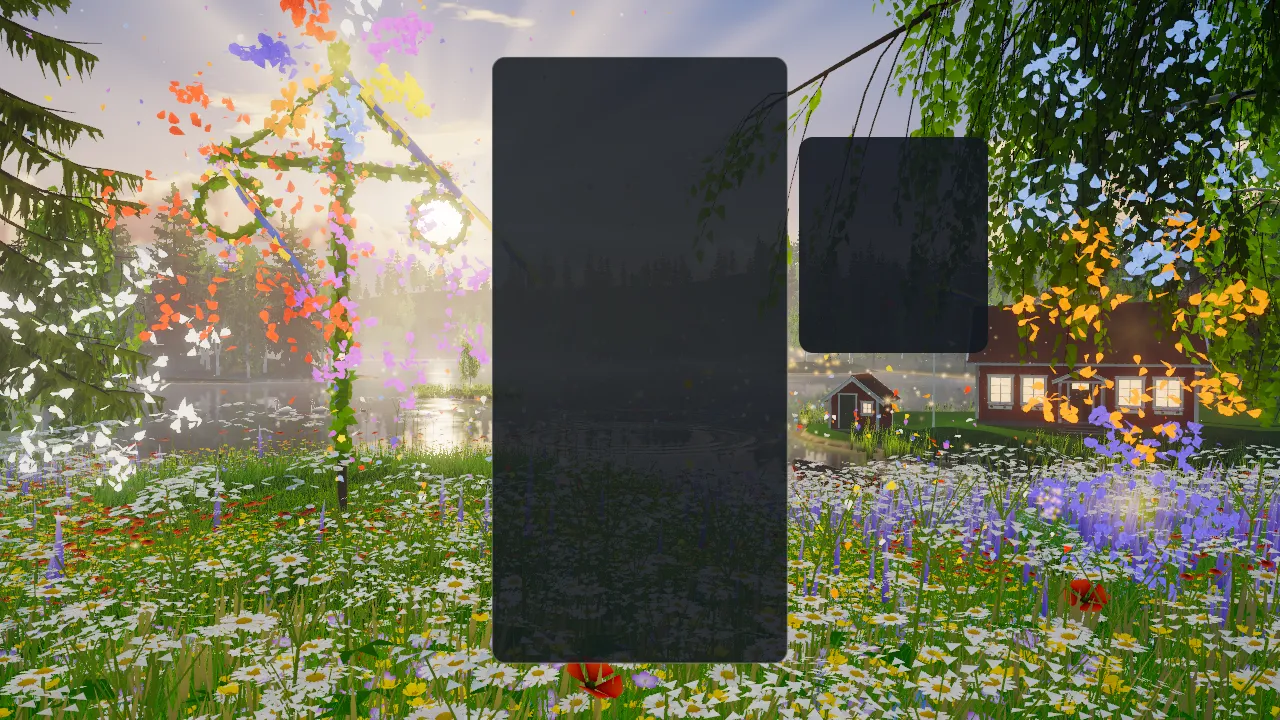
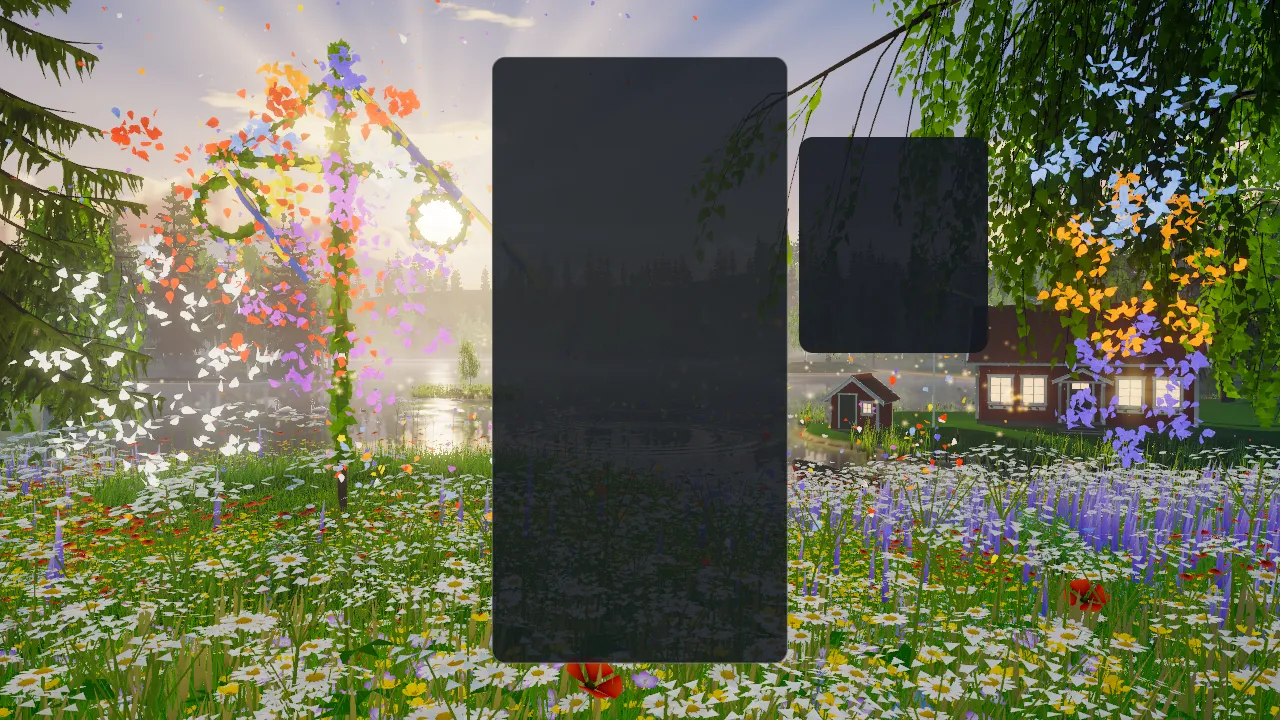
Summer living eve: the record follows the final code; the swans' origin in the attribution

Changed region(s): [[0.0, 0.0, 1.0, 1.0], [0.5938, 0.4889, 0.6562, 0.5194], [0.0, 0.7639, 0.0312, 0.825]]

diff --git a/tests/unit/summer-fx-director.test.js b/tests/unit/summer-fx-director.test.js
@@ -2505,7 +2505,7 @@ describe('Summer effects director', () => {
             expect(seen).toEqual([...seen].sort((a, b) => a - b));
         });
 
-        it('opens the bouquet\'s own flower about the maypole\'s head, nearer than the pole and clear of the card', () => {
+        it('opens the bouquet\'s own flower about the maypole\'s head, in front of it and clear of the card', () => {
             const CROWN_DEPTH = 8.2;
             const maypole = maypoleAnchors();
             const phone = {

diff --git a/docs/SUMMER_OVERHAUL_2026-10.md b/docs/SUMMER_OVERHAUL_2026-10.md
@@ -269,20 +269,23 @@ into uniforms; nothing is rebuilt, so every tier and both backends show the same
 | Event | What is its own |
 | --- | --- |
 | Piece lock | As before: petals of the piece's flower from the card's edge, that flower nodding and glowing wherever it grows, a gust through the grass, a ring on the lake (now seen). |
-| Hard drop | A ring of pollen runs out over the heads of the flowers from where the piece came down, under the dandelion seed it shakes loose. |
+| Hard drop | The piece comes down like a stone in the grass: a ring of its own flower's petals leaps out of the meadow to both sides of the board's foot, pollen among them, over the dandelion seed it shakes loose. |
 | Line clear (1–3) | As before: twin jets at the cleared rows, a broad ring, from two lines a front of wind. |
 | Four lines | As before: the meadow lifts its petals and the swallows tower; and now the sun's fan of rays opens across the sky. |
 | Combo / streak | As before: the crown of petals and the silk ribbons round the board. They are a combo's alone now (a back-to-back or a perfect clear no longer raises the ribbons). |
 | Twist | The maypole dances: its ten ribbons fly out and wheel round the pole. The spinning garland beside the board stays. |
 | Back-to-back | A stone skips down the sun's road, ring after ring, each touch a glint, further and with more hops for every one in a row; the sun's rays answer. |
-| The bouquet | The maypole throws the bouquet, and one great flower of every colour opens over it. |
-| Perfect clear | The largest thing the evening does. Seven flowers open in the air beside the board, one after another, one for each kind: a thread of pollen climbs, and the petals of one kind are thrown from a gold heart to their places in a flower drawn in the air, five to eight great petals each made of the small ones. The air holds each for a moment and a half, then lets it fall. Six stand to either side of the board (clear of the score panel, which is measured) and the last opens over the maypole, with the sunburst and the rising meadow as before. |
+| The bouquet | The maypole throws the bouquet, and one great flower of every colour opens about its head. |
+| Perfect clear | The largest thing the evening does. Seven flowers open in the air beside the board, one after another, one for each kind: a thread of pollen climbs, and the petals of one kind are thrown from a gold heart to their places in a flower drawn in the air, five to eight great petals each made of the small ones. The air holds each for a moment and a half, then lets it fall. Six stand to either side of the board and the last, in every colour, opens about the maypole's head, with the sunburst and the rising meadow as before. A flower's whole rim is kept clear of the board card, the score panel (both are measured), the screen's edges and the meadow under it: on the score panel's narrow side the three stand one above another, drawn a little smaller, and on an upright screen they open in a row above the board. |
 | Level up | The hour turns, and a wave of bloom rolls away from the eye through the meadow, opening and lighting every flower as it passes, and runs on across the lake as a band of sparkling water. A skein of swans takes wing over the lake. |
 | Game over | Dusk: the wind dies, mist rises off the water, the light lowers and cools while the petals come down. It lifts again when the next session starts. |
 
 Frame-wide brightenings (the rays, the hearts of the flowers) go through `flashScale()`; what
 moves the maypole's ribbons is scaled by Reduce motion. Nothing is thrown in front of the board:
-the card and the score panel are measured, and the flowers open in the strips beside them.
+the card and the score panel are measured, and the flowers open in the strips beside them. The
+petal pool grew by a quarter (4,000 at High) so that the largest thing the game can ask for at
+once, four lines with a perfect clear on top, finds every petal a free place while a combo's
+crown is still turning.
 
 | Perfect clear | Twist |
 | --- | --- |
@@ -355,6 +358,8 @@ them with distance into flecks the ground shader carries.
 | `summer-garlands.js` | The silk ribbons a combo winds around the board. |
 | `summer-petal-sim.js`, `summer-petals.js` | Petals, seed and pollen: simulation, and drawing. |
 | `summer-hours.js` | The five hours of the night: their colours, the blend between them, and the hour a level stands at (pure). |
+| `summer-weather.js` | The six weathers and the clock that turns them (pure). Since 2026-11-17. |
+| `summer-swans.js`, `summer-swan-routes.js`, `summer-swan-model.js` | The swans: the instanced draws; the family's round and the skein's flight lines, found by numbers through the rest lens; the generated Blender model. Since 2026-11-17. |
 | `summer-reactions.js` | The event director (pure), and where the night stands: the level, the turn to its hour, and the slow clock. |
 | `summer-stage.js`, `summer-fx-director.js` | Board card → world, and cues → petals, force fields, rings and gusts. |
 | `summer-post.js` | Volumetric shafts, bloom, grade, FXAA. |
@@ -397,15 +402,20 @@ them with distance into flecks the ground shader carries.
 
 | Tier | Stands / far trees | Sprays kept | Grass clumps | Flowers | Petal pool | Mirror | Shafts | Post |
 | --- | --- | --- | --- | --- | --- | --- | --- | --- |
-| Extreme | 44 / 460 | 100 % | 49,000 | 35,200 | 3,600 | 0.75 | 40 steps | on |
-| Ultra | 38 / 400 | 100 % | 40,500 | 29,400 | 3,000 | 0.6 | 32 steps | on |
-| High | 32 / 340 | 86 % | 32,000 | 23,600 | 2,400 | 0.5 | 26 steps | on |
-| Medium | 24 / 250 | 62 % | 20,500 | 15,400 | 1,500 | 0.4 | 16 steps, 0.35 scale | on |
-| Low | 16 / 160 | 40 %, trunks only | 10,400 | 7,800 | 850 | 0.3 | analytic glow in the haze | off |
-| Minimal | 10 / 100 | 28 %, trunks only | 5,400 | 3,900 | 450 | 0.22 | analytic glow in the haze | off |
+| Extreme | 44 / 2,000 | 100 % | 49,000 | 35,200 | 6,000 | 0.75 | 40 steps | on |
+| Ultra | 38 / 1,700 | 100 % | 40,500 | 29,400 | 5,000 | 0.6 | 32 steps | on |
+| High | 32 / 1,400 | 86 % | 32,000 | 23,600 | 4,000 | 0.5 | 26 steps | on |
+| Medium | 24 / 950 | 62 % | 20,500 | 15,400 | 2,500 | 0.4 | 16 steps, 0.35 scale | on |
+| Low | 16 / 560 | 40 %, trunks only | 10,400 | 7,800 | 1,400 | 0.3 | analytic glow in the haze | off |
+| Minimal | 10 / 340 | 28 %, trunks only | 5,400 | 3,900 | 750 | 0.22 | analytic glow in the haze | off |
 
 "Stands" are the modelled trees beyond the nine placed by hand. Low and Minimal draw the
-same scene directly with ACES tone mapping and skip limb geometry.
+same scene directly with ACES tone mapping and skip limb geometry. (Far trees and the petal
+pool as of the living eve, 2026-11-17; before it they were 460 to 100 and 3,600 to 450.) Since
+then a tier also sets how much of the sky is drawn (`sky`: Low and Minimal one row of cumulus
+and the high deck; Medium the second row, the mackerel field, the noctilucent clouds and rain on
+the lake as well; High and up finer billows) and how many swans there are (`swans`: two to four
+cygnets with the pair, three to seven birds in a skein).
 
 | Minimal, forced WebGL2 | Portrait, High |
 | --- | --- |

diff --git a/src/themes/summer/assets/ATTRIBUTION.md b/src/themes/summer/assets/ATTRIBUTION.md
@@ -104,3 +104,19 @@ Growth and props are seeded and the bakes run on the CPU: on the machine that wr
 pack, three runs in a row produced all twelve files (and the manifest) byte for byte.
 Re-run the tests after regenerating. The whole pack takes about fifteen seconds on a
 laptop CPU; `--preview` adds a few minutes of stills.
+
+## The swans (beside the theme's code, not in this folder)
+
+`src/themes/summer/summer-swan-model.js` (added 2026-11-17) holds the lake's mute swans: an
+adult afloat, a cygnet and an adult on the wing. It is a project-owned original as well,
+modelled procedurally in Blender 5.2 by `scripts/blender/summer_swan.py` and written out as
+a generated JavaScript module (quantised typed arrays, no file to fetch), with no third-party
+geometry, texture or scan and nothing produced by an image or 3D model generator. Licence:
+the same as the project.
+
+```bash
+blender --background --factory-startup --python scripts/blender/summer_swan.py -- \
+    --out src/themes/summer [--preview <dir>]
+```
+
+Running it again writes the same bytes.
